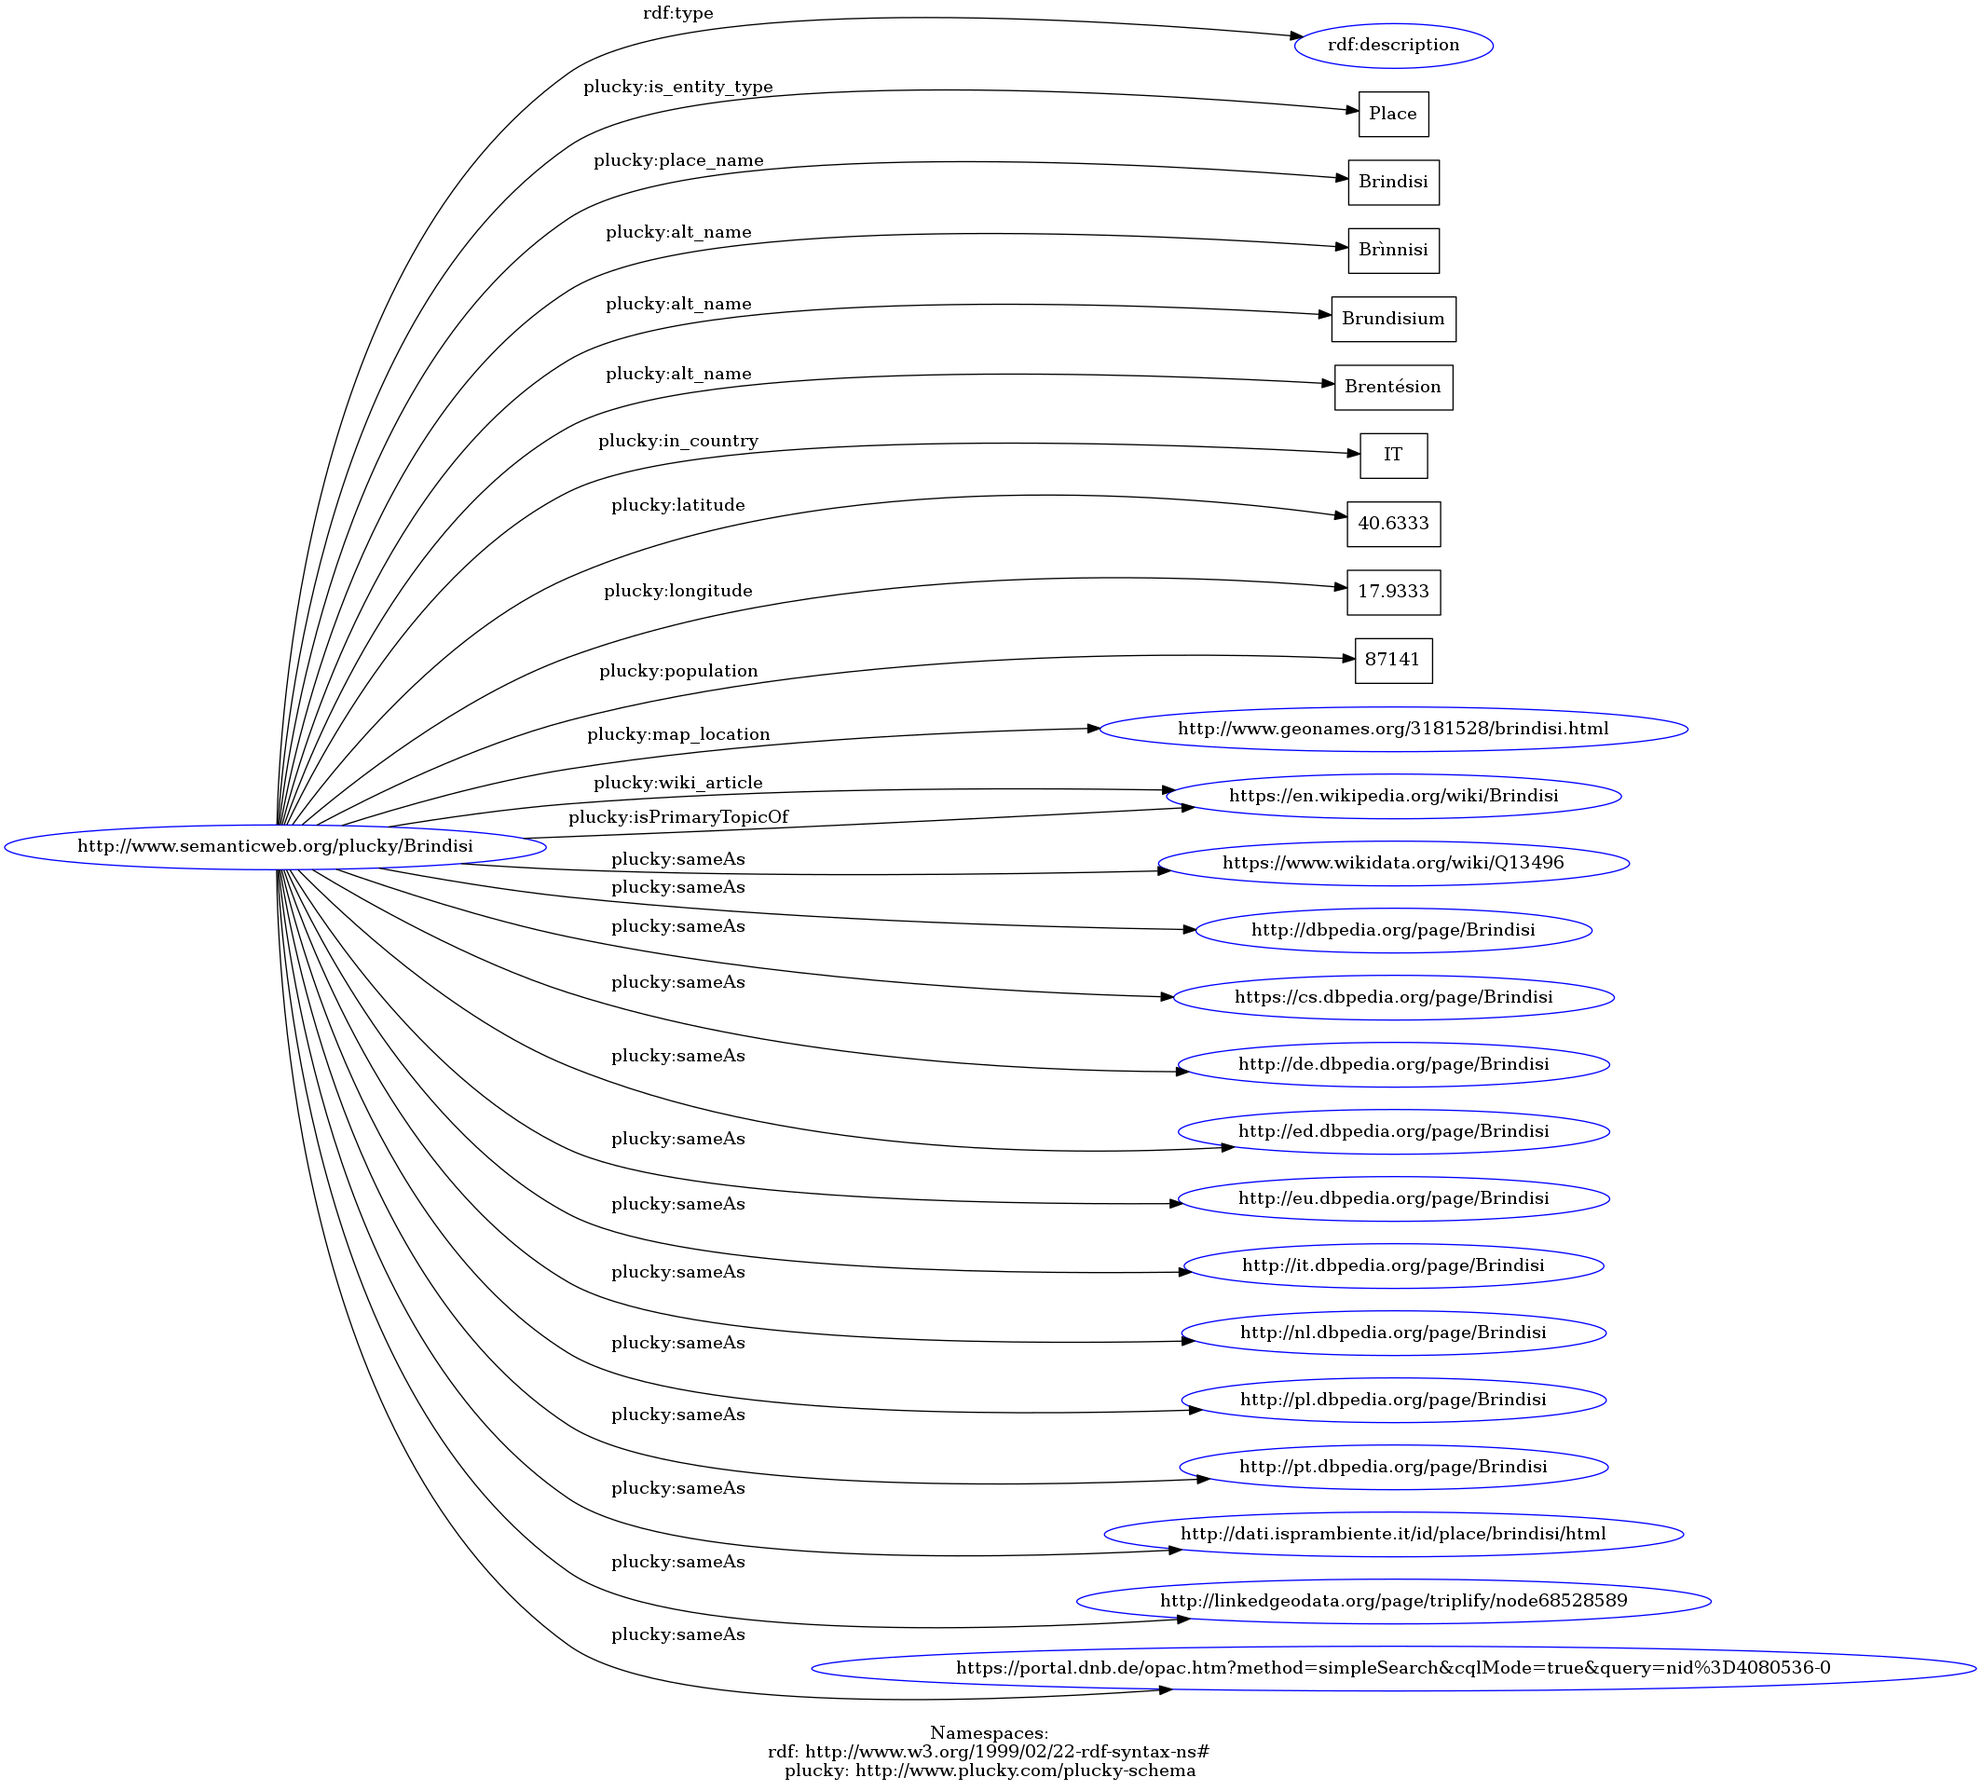
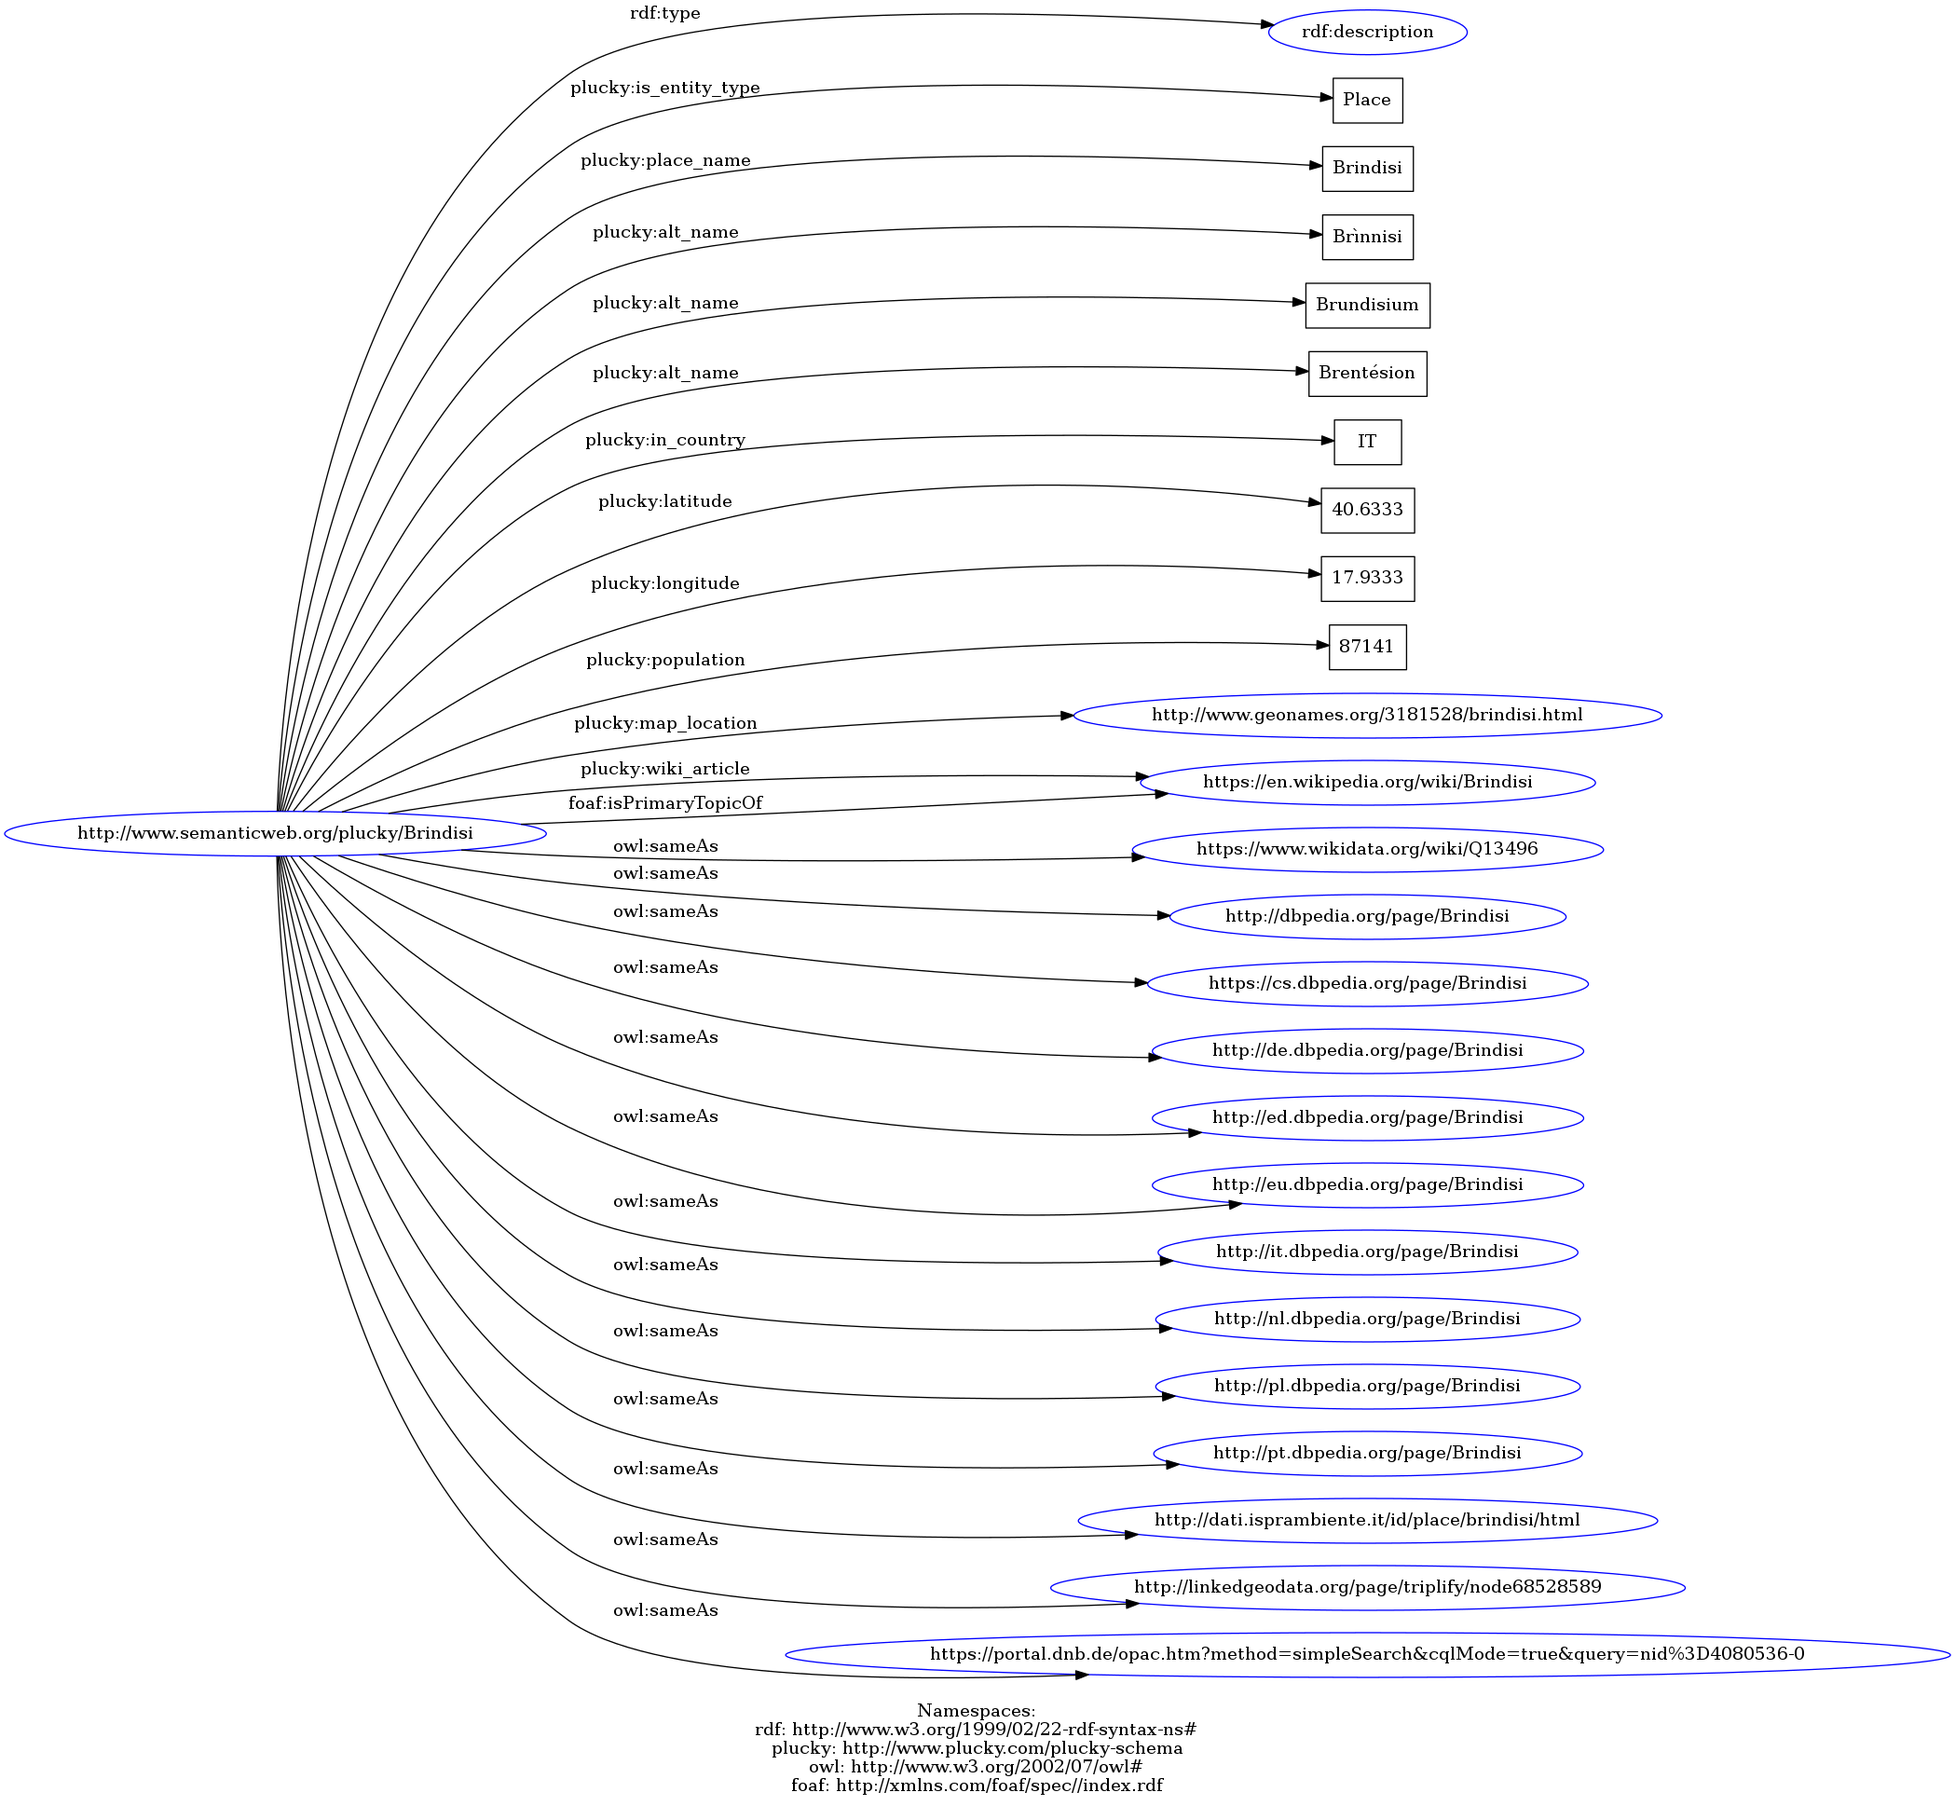
V1.0 Webpage

Changed region(s): [[0.031, 0.0, 1.0, 0.999], [0.2788, 0.0, 0.4028, 0.0937]]

diff --git a/project/xml/person.html b/project/xml/person.html
@@ -234,6 +234,8 @@
   &#60;rdf:RDF
   xmlns:rdf="http://www.w3.org/1999/02/22-rdf-syntax-ns#"
   xmlns:plucky="http://www.plucky.com/plucky-schema"
+  xmlns:owl="http://www.w3.org/2002/07/owl#"
+  xmlns:foaf= "http://xmlns.com/foaf/spec//index.rdf"
   xml:base="http://www.semanticweb.org/plucky/NellieBly"&#62;
     &#60;rdf:description rdf:about="http://www.semanticweb.org/plucky/NellieBly"&#62;
       &#60;pluky:is_entity_type rdf:resource="http://www.semanticweb.org/plucky#person"/&#62;
@@ -286,22 +288,22 @@
         &#60;plucky:relation_start&#62; 1889-11-23&#60;/plucky:relation_start&#62;
       &#60;/plucky:has_agent_relation&#62;
 
-      &#60;plucky:sameAs rdf:resource="https://viaf.org/viaf/816475/"/&#62;
-      &#60;plucky:sameAs rdf:resource="https://www.wikidata.org/wiki/Q230299"/&#62;
-      &#60;plucky:sameAs rdf:resource="http://dbpedia.org/page/Nellie_Bly/"/&#62;
-      &#60;plucky:sameAs rdf:resource="http://cs.dbpedia.org/page/Nellie_Bly"/&#62;
-      &#60;plucky:sameAs rdf:resource="http://de.dbpedia.org/page/Nellie_Bly"/&#62;
-      &#60;plucky:sameAs rdf:resource="http://es.dbpedia.org/page/Nellie_Bly"/&#62;
-      &#60;plucky:sameAs rdf:resource="http://eu.dbpedia.org/page/Nellie_Bly"/&#62;
-      &#60;plucky:sameAs rdf:resource="http://fr.dbpedia.org/page/Nellie_Bly"/&#62;
-      &#60;plucky:sameAs rdf:resource="http://id.dbpedia.org/page/Nellie_Bly/"/&#62;
-      &#60;plucky:sameAs rdf:resource="http://it.dbpedia.org/page/Nellie_Bly/"/&#62;
-      &#60;plucky:sameAs rdf:resource="http://nl.dbpedia.org/page/Nellie_Bly/"/&#62;
-      &#60;plucky:sameAs rdf:resource="http://pl.dbpedia.org/page/Nellie_Bly/"/&#62;
-      &#60;plucky:sameAs rdf:resource="http://pt.dbpedia.org/page/Nellie_Bly/"/&#62;
-      &#60;plucky:sameAs rdf:resource="http://ja.dbpedia.org/page/%E3%83%8D%E3%83%AA%E3%83%BC%E3%83%BB%E3%83%96%E3%83%A9%E3%82%A4"/&#62;
-      &#60;plucky:sameAs rdf:resource="http://ko.dbpedia.org/page/%EB%84%AC%EB%A6%AC_%EB%B8%94%EB%9D%BC%EC%9D%B4"/&#62;
-      &#60;plucky:isPrimaryTopicOf rdf:resource="https://en.wikipedia.org/wiki/Nellie_Bly"/&#62;
+      &#60;owl:sameAs rdf:resource="https://viaf.org/viaf/816475/"/&#62;
+      &#60;owl:sameAs rdf:resource="https://www.wikidata.org/wiki/Q230299"/&#62;
+      &#60;owl:sameAs rdf:resource="http://dbpedia.org/page/Nellie_Bly/"/&#62;
+      &#60;owl:sameAs rdf:resource="http://cs.dbpedia.org/page/Nellie_Bly"/&#62;
+      &#60;owl:sameAs rdf:resource="http://de.dbpedia.org/page/Nellie_Bly"/&#62;
+      &#60;owl:sameAs rdf:resource="http://es.dbpedia.org/page/Nellie_Bly"/&#62;
+      &#60;owl:sameAs rdf:resource="http://eu.dbpedia.org/page/Nellie_Bly"/&#62;
+      &#60;owl:sameAs rdf:resource="http://fr.dbpedia.org/page/Nellie_Bly"/&#62;
+      &#60;owl:sameAs rdf:resource="http://id.dbpedia.org/page/Nellie_Bly/"/&#62;
+      &#60;owl:sameAs rdf:resource="http://it.dbpedia.org/page/Nellie_Bly/"/&#62;
+      &#60;owl:sameAs rdf:resource="http://nl.dbpedia.org/page/Nellie_Bly/"/&#62;
+      &#60;owl:sameAs rdf:resource="http://pl.dbpedia.org/page/Nellie_Bly/"/&#62;
+      &#60;owl:sameAs rdf:resource="http://pt.dbpedia.org/page/Nellie_Bly/"/&#62;
+      &#60;owl:sameAs rdf:resource="http://ja.dbpedia.org/page/%E3%83%8D%E3%83%AA%E3%83%BC%E3%83%BB%E3%83%96%E3%83%A9%E3%82%A4"/&#62;
+      &#60;owl:sameAs rdf:resource="http://ko.dbpedia.org/page/%EB%84%AC%EB%A6%AC_%EB%B8%94%EB%9D%BC%EC%9D%B4"/&#62;
+      &#60;foaf:isPrimaryTopicOf rdf:resource="https://en.wikipedia.org/wiki/Nellie_Bly"/&#62;
 
     &#60;/rdf:description&#62;
   &#60;/rdf:RDF&#62;

diff --git a/project/xml/date.html b/project/xml/date.html
@@ -234,6 +234,8 @@
   &#60;rdf:RDF
   xmlns:rdf="http://www.w3.org/1999/02/22-rdf-syntax-ns#"
   xmlns:plucky="http://www.plucky.com/plucky-schema"
+  xmlns:owl="http://www.w3.org/2002/07/owl#"
+  xmlns:foaf= "http://xmlns.com/foaf/spec//index.rdf"
   xml:base="http://www.semanticweb.org/plucky/1873"&#62;
     &#60;rdf:Description rdf:about="http://www.semanticweb.org/plucky/1873"&#62;
       &#60;plucky:data_format&#62;YYYY&#60;/plucky:data_format&#62;
@@ -266,23 +268,23 @@
         &#60;plucky:event_place&#62;Vienna&#60;/plucky:event_place&#62;
       &#60;/plucky:has_event_relation&#62;
 
-      &#60;plucky:sameAs rdf:resource="https://www.wikidata.org/wiki/Q7757"/&#62;
-      &#60;plucky:sameAs rdf:resource="https://cs.dbpedia.org/page/1873"/&#62;
-      &#60;plucky:sameAs rdf:resource="http://de.dbpedia.org/resource/1873"/&#62;
-      &#60;plucky:sameAs rdf:resource="http://el.dbpedia.org/resource/1873"/&#62;
-      &#60;plucky:sameAs rdf:resource="http://es.dbpedia.org/resource/1873"/&#62;
-      &#60;plucky:sameAs rdf:resource="http://eu.dbpedia.org/resource/1873"/&#62;
-      &#60;plucky:sameAs rdf:resource="http://fr.dbpedia.org/resource/1873"/&#62;
-      &#60;plucky:sameAs rdf:resource="http://id.dbpedia.org/resource/1873"/&#62;
-      &#60;plucky:sameAs rdf:resource="http://it.dbpedia.org/resource/1873"/&#62;
-      &#60;plucky:sameAs rdf:resource="http://ja.dbpedia.org/resource/1873"/&#62;
-      &#60;plucky:sameAs rdf:resource="http://ko.dbpedia.org/resource/1873"/&#62;
-      &#60;plucky:sameAs rdf:resource="http://nl.dbpedia.org/resource/1873"/&#62;
-      &#60;plucky:sameAs rdf:resource="http://pl.dbpedia.org/resource/1873"/&#62;
-      &#60;plucky:sameAs rdf:resource="http://pt.dbpedia.org/resource/1873"/&#62;
-      &#60;plucky:sameAs rdf:resource="http://fr.dbpedia.org/resource/1873"/&#62;
-      &#60;plucky:sameAs rdf:resource="http://wikidata.dbpedia.org/resource/Q7757"/&#62;
-      &#60;plucky:isPrimaryTopicOf rdf:resource="https://en.wikipedia.org/wiki/1873"/&#62;
+      &#60;owl:sameAs rdf:resource="https://www.wikidata.org/wiki/Q7757"/&#62;
+      &#60;owl:sameAs rdf:resource="https://cs.dbpedia.org/page/1873"/&#62;
+      &#60;owl:sameAs rdf:resource="http://de.dbpedia.org/resource/1873"/&#62;
+      &#60;owl:sameAs rdf:resource="http://el.dbpedia.org/resource/1873"/&#62;
+      &#60;owl:sameAs rdf:resource="http://es.dbpedia.org/resource/1873"/&#62;
+      &#60;owl:sameAs rdf:resource="http://eu.dbpedia.org/resource/1873"/&#62;
+      &#60;owl:sameAs rdf:resource="http://fr.dbpedia.org/resource/1873"/&#62;
+      &#60;owl:sameAs rdf:resource="http://id.dbpedia.org/resource/1873"/&#62;
+      &#60;owl:sameAs rdf:resource="http://it.dbpedia.org/resource/1873"/&#62;
+      &#60;owl:sameAs rdf:resource="http://ja.dbpedia.org/resource/1873"/&#62;
+      &#60;owl:sameAs rdf:resource="http://ko.dbpedia.org/resource/1873"/&#62;
+      &#60;owl:sameAs rdf:resource="http://nl.dbpedia.org/resource/1873"/&#62;
+      &#60;owl:sameAs rdf:resource="http://pl.dbpedia.org/resource/1873"/&#62;
+      &#60;owl:sameAs rdf:resource="http://pt.dbpedia.org/resource/1873"/&#62;
+      &#60;owl:sameAs rdf:resource="http://fr.dbpedia.org/resource/1873"/&#62;
+      &#60;owl:sameAs rdf:resource="http://wikidata.dbpedia.org/resource/Q7757"/&#62;
+      &#60;foaf:isPrimaryTopicOf rdf:resource="https://en.wikipedia.org/wiki/1873"/&#62;
 
     &#60;/rdf:Description&#62;
 &#60;/rdf:RDF&#62;

diff --git a/project/xml/place.html b/project/xml/place.html
@@ -234,6 +234,8 @@
   &#60;rdf:RDF
   xmlns:rdf="http://www.w3.org/1999/02/22-rdf-syntax-ns#"
   xmlns:plucky="http://www.plucky.com/plucky-schema"
+  xmlns:owl="http://www.w3.org/2002/07/owl#"
+  xmlns:foaf= "http://xmlns.com/foaf/spec//index.rdf"
   xml:base="http://www.semanticweb.org/plucky/Brindisi"&#62;
     &#60;rdf:description rdf:about="http://www.semanticweb.org/plucky/Brindisi"&#62;
       &#60;plucky:is_entity_type&#62;Place&#60;/plucky:is_entity_type&#62;
@@ -248,20 +250,20 @@
       &#60;plucky:map_location rdf:resource="http://www.geonames.org/3181528/brindisi.html"/&#62;
       &#60;plucky:wiki_article rdf:resource="https://en.wikipedia.org/wiki/Brindisi"/&#62;
 
-      &#60;plucky:sameAs rdf:resource="https://www.wikidata.org/wiki/Q13496"/&#62;
-      &#60;plucky:sameAs rdf:resource="http://dbpedia.org/page/Brindisi"/&#62;
-      &#60;plucky:sameAs rdf:resource="https://cs.dbpedia.org/page/Brindisi"/&#62;
-      &#60;plucky:sameAs rdf:resource="http://de.dbpedia.org/page/Brindisi"/&#62;
-      &#60;plucky:sameAs rdf:resource="http://ed.dbpedia.org/page/Brindisi"/&#62;
-      &#60;plucky:sameAs rdf:resource="http://eu.dbpedia.org/page/Brindisi"/&#62;
-      &#60;plucky:sameAs rdf:resource="http://it.dbpedia.org/page/Brindisi"/&#62;
-      &#60;plucky:sameAs rdf:resource="http://nl.dbpedia.org/page/Brindisi"/&#62;
-      &#60;plucky:sameAs rdf:resource="http://pl.dbpedia.org/page/Brindisi"/&#62;
-      &#60;plucky:sameAs rdf:resource="http://pt.dbpedia.org/page/Brindisi"/&#62;
-      &#60;plucky:sameAs rdf:resource="http://dati.isprambiente.it/id/place/brindisi/html"/&#62;
-      &#60;plucky:sameAs rdf:resource="http://linkedgeodata.org/page/triplify/node68528589"/&#62;
-      &#60;plucky:sameAs rdf:resource="https://portal.dnb.de/opac.htm?method=simpleSearch&amp;cqlMode=true&amp;query=nid%3D4080536-0"/&#62;
-      &#60;plucky:isPrimaryTopicOf rdf:resource="https://en.wikipedia.org/wiki/Brindisi"/&#62;
+      &#60;owl:sameAs rdf:resource="https://www.wikidata.org/wiki/Q13496"/&#62;
+      &#60;owl:sameAs rdf:resource="http://dbpedia.org/page/Brindisi"/&#62;
+      &#60;owl:sameAs rdf:resource="https://cs.dbpedia.org/page/Brindisi"/&#62;
+      &#60;owl:sameAs rdf:resource="http://de.dbpedia.org/page/Brindisi"/&#62;
+      &#60;owl:sameAs rdf:resource="http://ed.dbpedia.org/page/Brindisi"/&#62;
+      &#60;owl:sameAs rdf:resource="http://eu.dbpedia.org/page/Brindisi"/&#62;
+      &#60;owl:sameAs rdf:resource="http://it.dbpedia.org/page/Brindisi"/&#62;
+      &#60;owl:sameAs rdf:resource="http://nl.dbpedia.org/page/Brindisi"/&#62;
+      &#60;owl:sameAs rdf:resource="http://pl.dbpedia.org/page/Brindisi"/&#62;
+      &#60;owl:sameAs rdf:resource="http://pt.dbpedia.org/page/Brindisi"/&#62;
+      &#60;owl:sameAs rdf:resource="http://dati.isprambiente.it/id/place/brindisi/html"/&#62;
+      &#60;owl:sameAs rdf:resource="http://linkedgeodata.org/page/triplify/node68528589"/&#62;
+      &#60;owl:sameAs rdf:resource="https://portal.dnb.de/opac.htm?method=simpleSearch&amp;cqlMode=true&amp;query=nid%3D4080536-0"/&#62;
+      &#60;foaf:isPrimaryTopicOf rdf:resource="https://en.wikipedia.org/wiki/Brindisi"/&#62;
 
     &#60;/rdf:description&#62;
   &#60;/rdf:RDF&#62;

diff --git a/project/xml/concept.html b/project/xml/concept.html
@@ -234,6 +234,8 @@
   &#60;rdf:RDF
   xmlns:rdf="http://www.w3.org/1999/02/22-rdf-syntax-ns#"
   xmlns:plucky="http://www.plucky.com/plucky-schema"
+  xmlns:owl="http://www.w3.org/2002/07/owl#"
+  xmlns:foaf= "http://xmlns.com/foaf/spec//index.rdf"
   xml:base="http://www.semanticweb.org/plucky/SecondIndustrialRevolution"&#62;
     &#60;rdf:description rdf:about="http://www.semanticweb.org/plucky/SecondIndustrialRevolution"&#62;
       &#60;plucky:is_entity_type&#62;Concept&#60;/plucky:is_entity_type&#62;
@@ -278,15 +280,15 @@
         &#60;plucky:event_type&#62;Concept&#60;/plucky:event_type&#62;
       &#60;/plucky:has_event_relation&#62;
 
-      &#60;plucky:sameAs rdf:resource="http://ushistoryscene.com/article/second-industrial-revolution/"/&#62;
-      &#60;plucky:sameAs rdf:resource="https://study.com/academy/lesson/the-second-industrial-revolution-timeline-inventions.html"/&#62;
-      &#60;plucky:sameAs rdf:resource="https://de.wikipedia.org/wiki/Zweite_industrielle_Revolution"/&#62;
-      &#60;plucky:sameAs rdf:resource="https://es.wikipedia.org/wiki/Segunda_Revolución_Industrial"/&#62;
-      &#60;plucky:sameAs rdf:resource="https://fr.wikipedia.org/wiki/Innovation_en_Europe_à_la_Belle_Époque"/&#62;
-      &#60;plucky:sameAs rdf:resource="https://it.wikipedia.org/wiki/Seconda_rivoluzione_industriale"/&#62;
-      &#60;plucky:sameAs rdf:resource="https://nl.wikipedia.org/wiki/Tweede_industriële_revolutie"/&#62;
-      &#60;plucky:sameAs rdf:resource="https://pl.wikipedia.org/wiki/Druga_rewolucja_przemysłowa"/&#62;
-      &#60;plucky:isPrimaryTopicOf rdf:resource="https://en.wikipedia.org/wiki/Second_Industrial_Revolution"/&#62;
+      &#60;owl:sameAs rdf:resource="http://ushistoryscene.com/article/second-industrial-revolution/"/&#62;
+      &#60;owl:sameAs rdf:resource="https://study.com/academy/lesson/the-second-industrial-revolution-timeline-inventions.html"/&#62;
+      &#60;owl:sameAs rdf:resource="https://de.wikipedia.org/wiki/Zweite_industrielle_Revolution"/&#62;
+      &#60;owl:sameAs rdf:resource="https://es.wikipedia.org/wiki/Segunda_Revolución_Industrial"/&#62;
+      &#60;owl:sameAs rdf:resource="https://fr.wikipedia.org/wiki/Innovation_en_Europe_à_la_Belle_Époque"/&#62;
+      &#60;owl:sameAs rdf:resource="https://it.wikipedia.org/wiki/Seconda_rivoluzione_industriale"/&#62;
+      &#60;owl:sameAs rdf:resource="https://nl.wikipedia.org/wiki/Tweede_industriële_revolutie"/&#62;
+      &#60;owl:sameAs rdf:resource="https://pl.wikipedia.org/wiki/Druga_rewolucja_przemysłowa"/&#62;
+      &#60;foaf:isPrimaryTopicOf rdf:resource="https://en.wikipedia.org/wiki/Second_Industrial_Revolution"/&#62;
 
     &#60;/rdf:description&#62;
   &#60;/rdf:RDF&#62;
